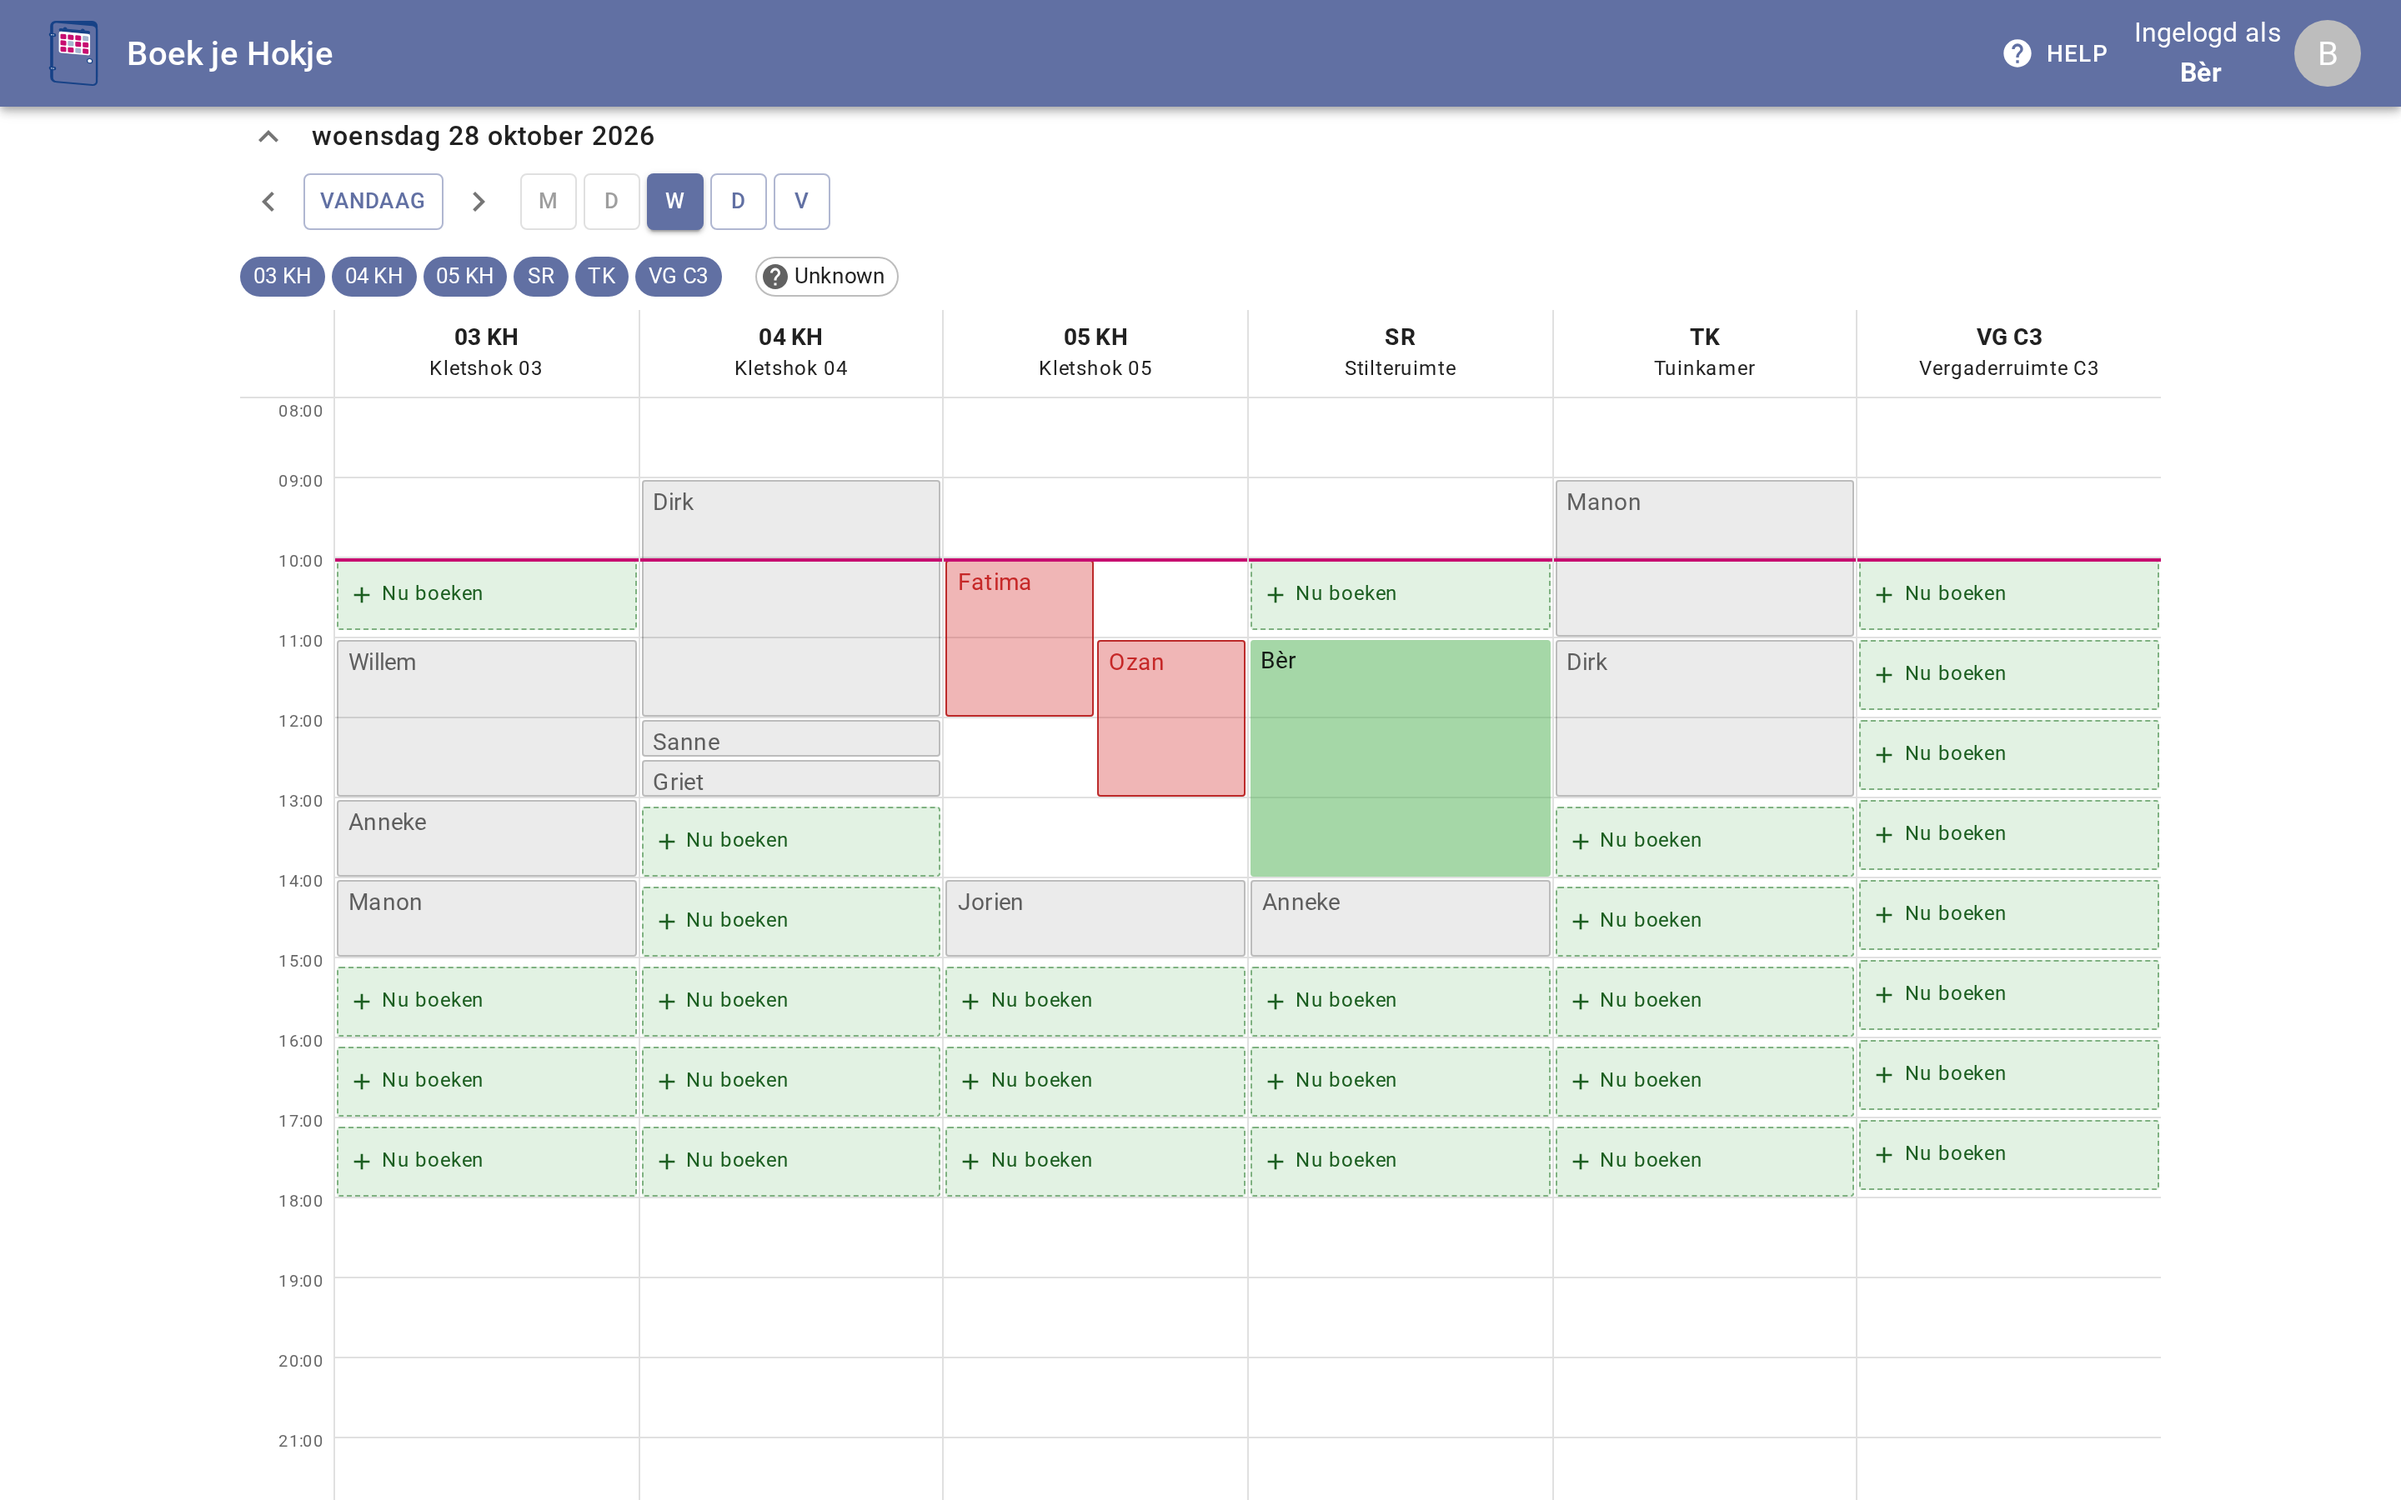
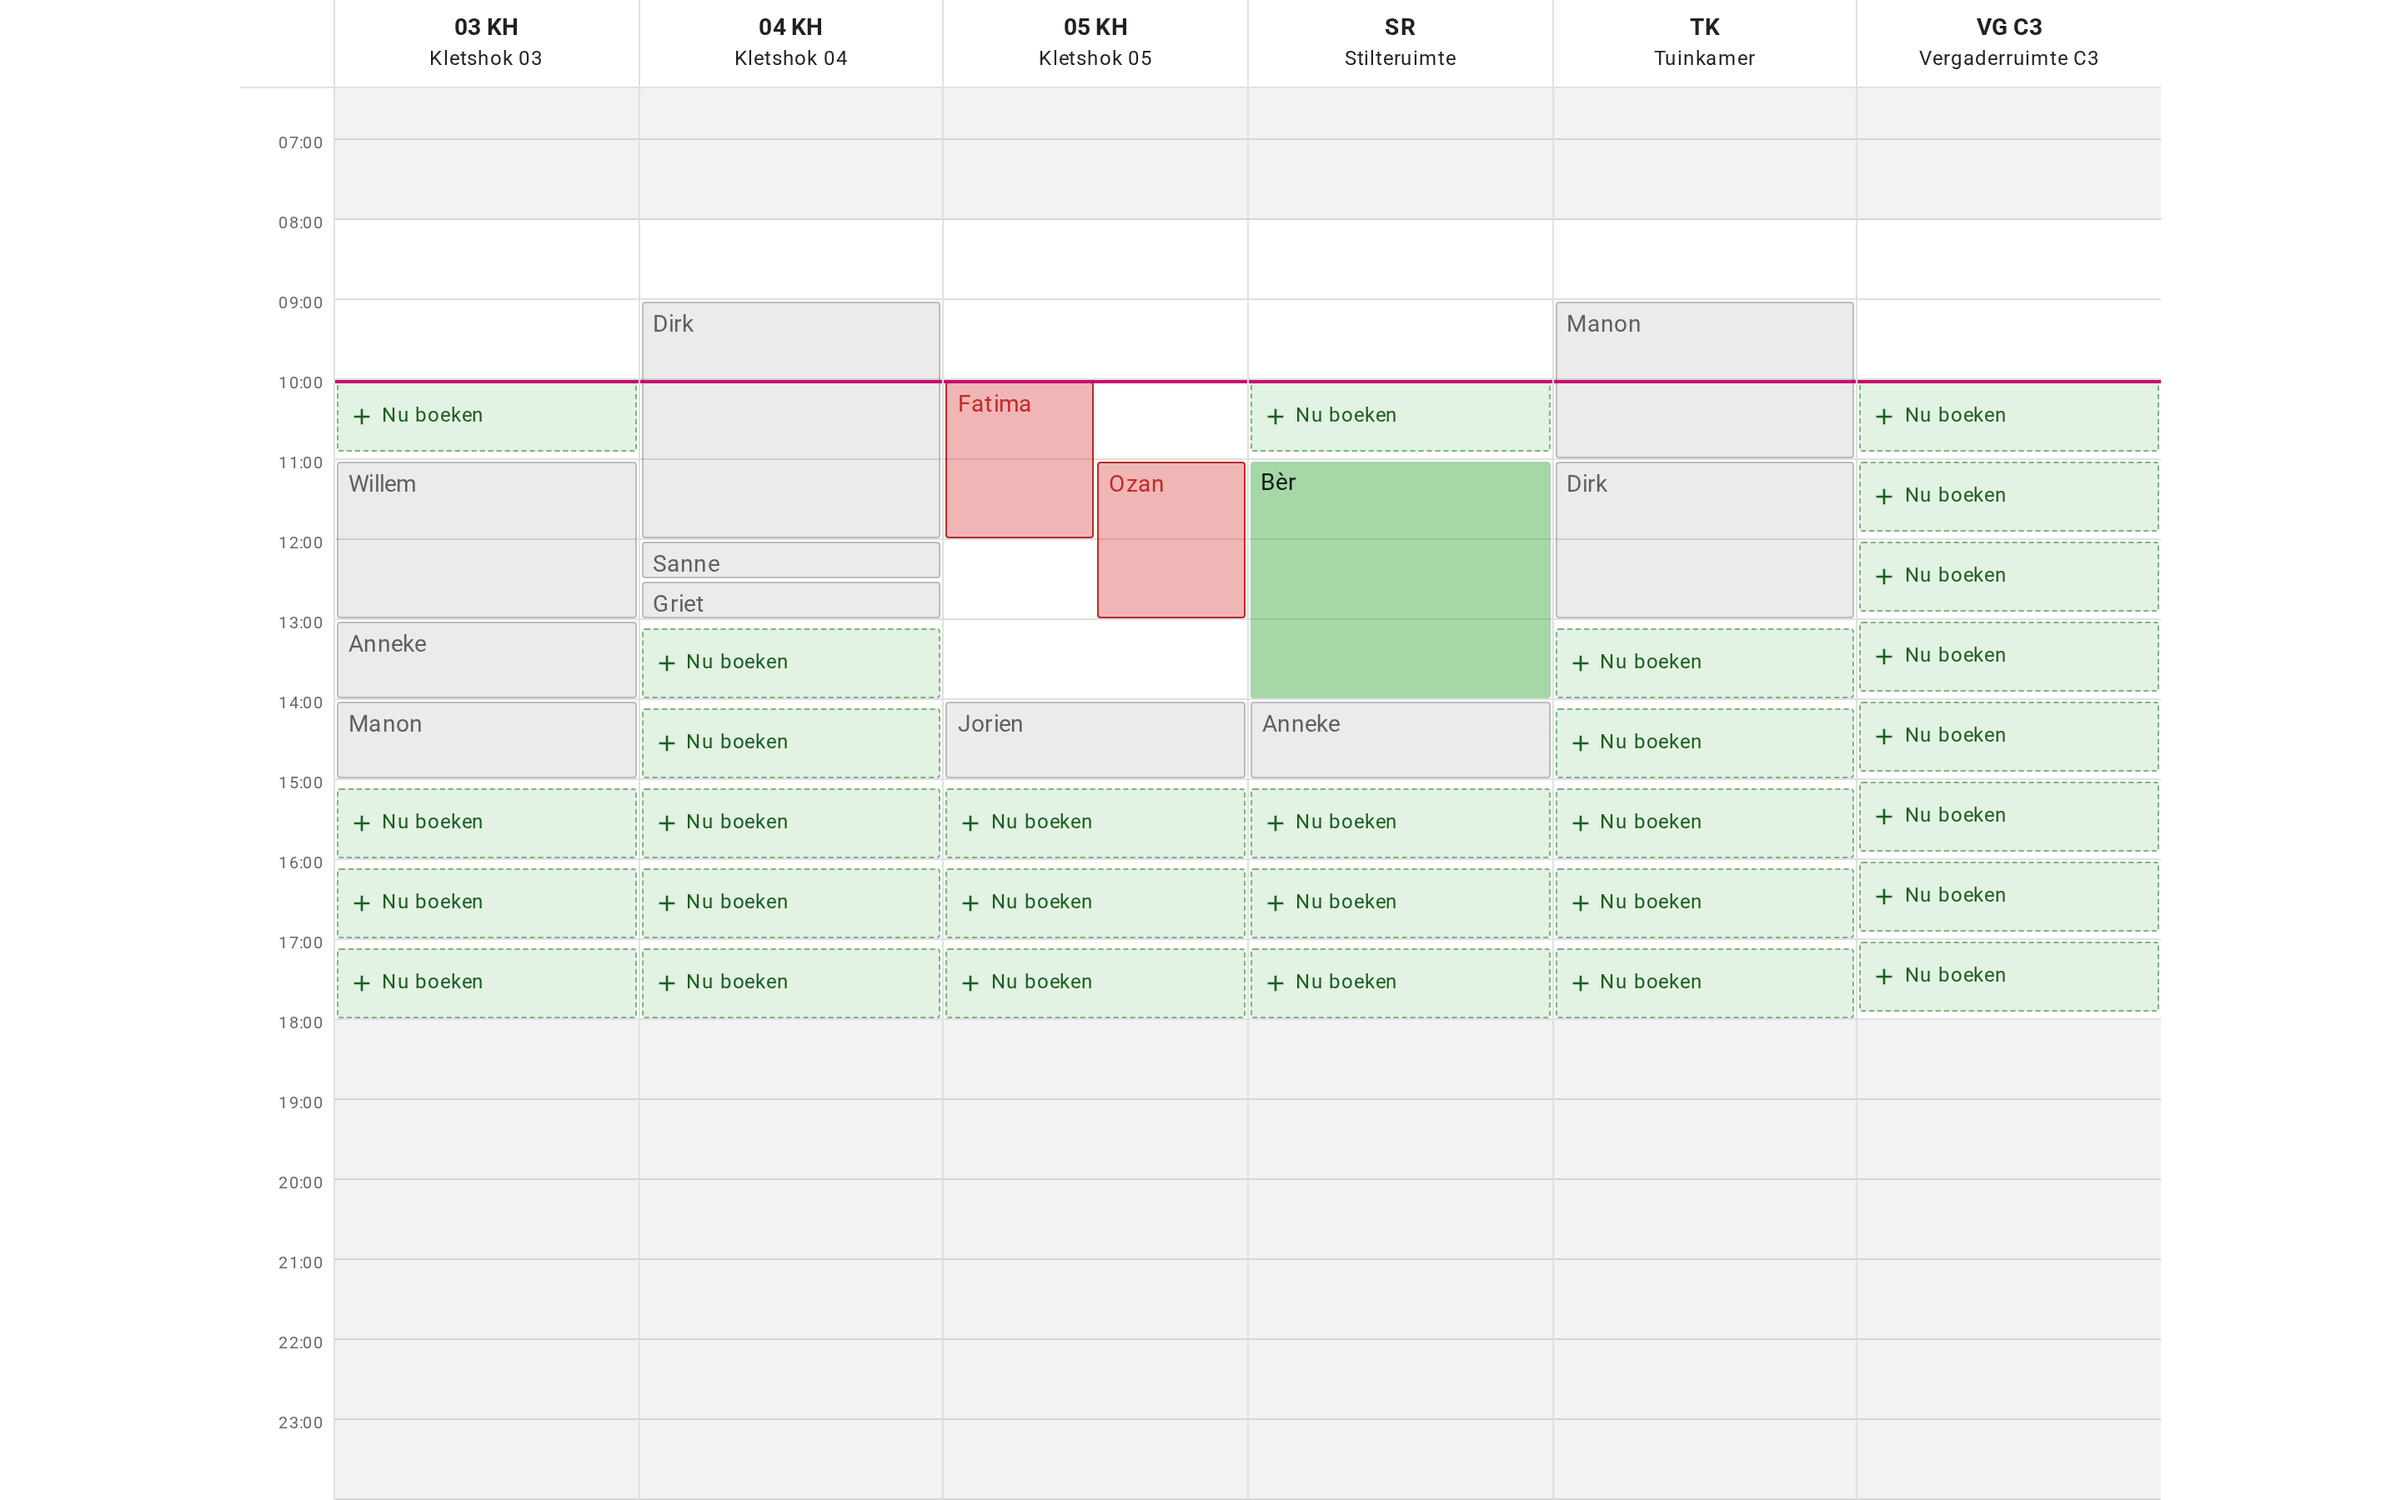
docs: retake screenshots and document the scroll-to-business-hours behavior
The overview now opens scrolled to 08:00 instead of 00:00 (screenshots
show the new initial scroll position).

diff --git a/docs/architecture.md b/docs/architecture.md
@@ -20,9 +20,12 @@ Layers, top to bottom:
   No API calls, no service wiring: domain types and pure helpers from the
   services barrel, service instances only via hooks. The app bar lives in
   `components/AppHeader.tsx`: responsive via CSS breakpoints only (mobile:
-  hamburger left, avatar right, with "Ingelogd als"/Help in the avatar menu),
-  and it hides on scroll on every viewport via MUI's `useScrollTrigger` +
-  `Slide`.
+  avatar right, with "Ingelogd als"/Help in the avatar menu), and it hides on
+  scroll on every viewport via MUI's `useScrollTrigger` + `Slide`. The board
+  renders the whole day with no internal scroll — the window is the only
+  scroller — and on opening the overview or switching days it scrolls so the
+  start of business hours (08:00) is at the top (`scrollWindowToHour` in
+  `components/calendar/board.ts`).
 - **Hooks** (`src/hooks/`) — the React bridge. `ServicesProvider` provides the
   service tree; `useServices.ts` exposes typed accessors; `useSession`,
   `useCalendar` and `useRoomVisibility` call the services and manage the results
